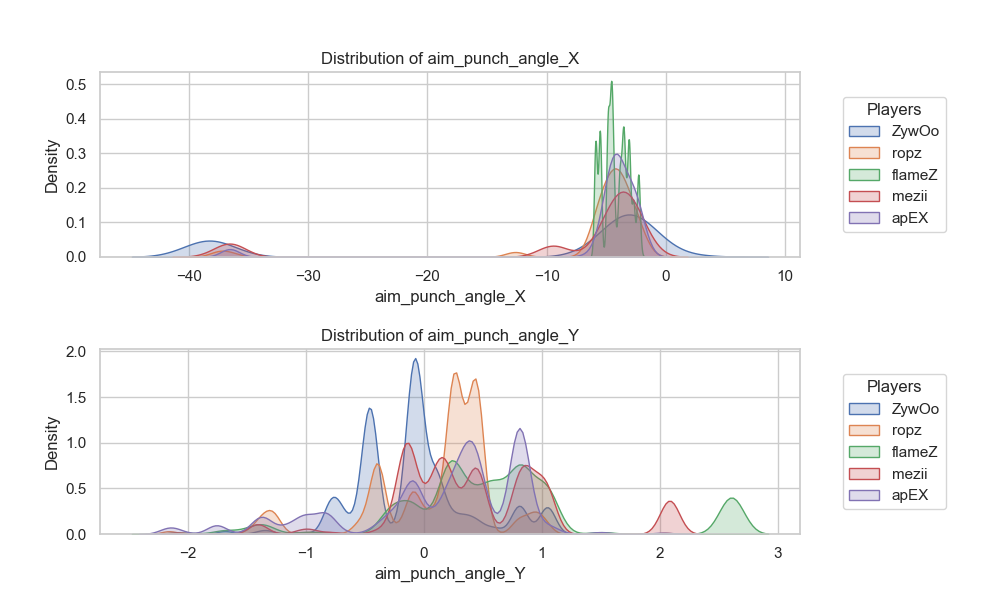
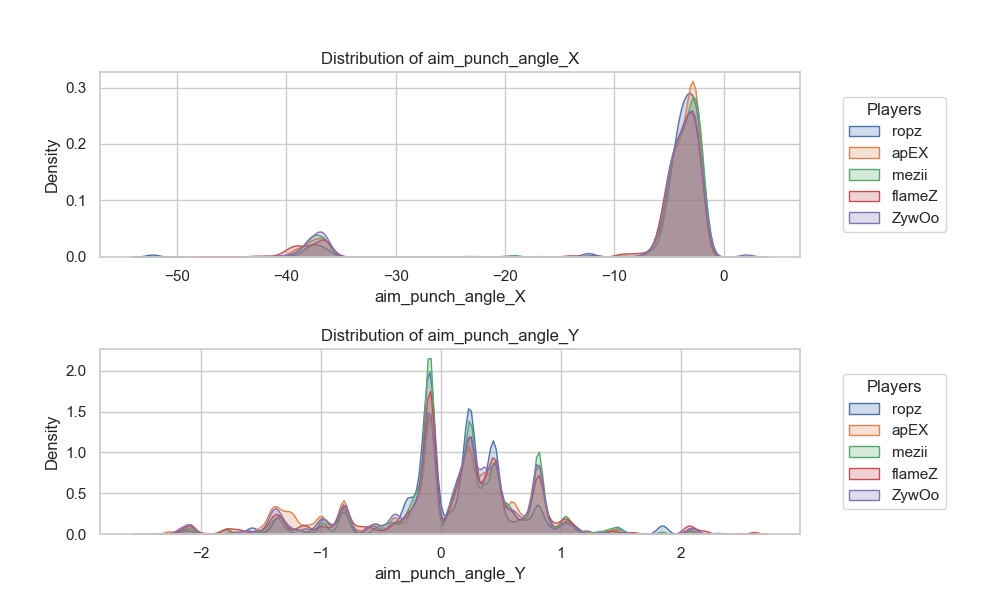
Filter on players of interest Remove rows with NoneType

diff --git a/util.py b/util.py
@@ -1,4 +1,6 @@
+import hashlib
 import os
+import pickle
 from typing import List
 import pandas as pd
 from selenium.webdriver.support.ui import WebDriverWait
@@ -109,15 +111,56 @@ def dir_path(path):
     else:
         raise argparse.ArgumentTypeError(f"{path} is not a valid directory")
     
-def split_list_columns(df : pd.DataFrame) -> pd.DataFrame:
+def split_list_columns(df: pd.DataFrame) -> pd.DataFrame:
+    df = df.dropna().copy()  # Drop None/NaN rows and avoid modifying original DataFrame
+
     for col in tqdm(df.columns, desc="Splitting columns", total=len(df.columns)):
-        # Check if the column contains lists of length 2 or 3
-        if isinstance(df[col].iloc[0], list) or isinstance(df[col].iloc[0], np.ndarray) and len(df[col].iloc[0]) in [2, 3]:
-            # Create new columns based on the length of the list
-            if len(df[col].iloc[0]) == 3:
-                df[[f'{col}_X', f'{col}_Y', f'{col}_Z']] = pd.DataFrame(df[col].to_list(), index=df.index)
-            elif len(df[col].iloc[0]) == 2:
-                df[[f'{col}_X', f'{col}_Y']] = pd.DataFrame(df[col].to_list(), index=df.index)
-            # Drop the original list column
-            df = df.drop(columns=[col])
+        valid_rows = df[col].notna()
+        if valid_rows.any():  # Ensure there are valid rows to process
+            first_valid = df.loc[valid_rows, col].iloc[0]
+            
+            if isinstance(first_valid, (list, np.ndarray)) and len(first_valid) in [2, 3]:
+                # Convert list column to DataFrame and assign directly
+                expanded_df = pd.DataFrame(df.loc[valid_rows, col].to_list(), index=df.index[valid_rows])
+                expanded_df.columns = [f"{col}_X", f"{col}_Y"] if len(first_valid) == 2 else [f"{col}_X", f"{col}_Y", f"{col}_Z"]
+
+                df = df.drop(columns=[col])  # Drop original column
+                df = df.join(expanded_df)  # Join expanded columns back
+        
+        print(f"After {col}: {df.head()}")  # Debugging step
+
     return df
+
+# def split_list_columns(df: pd.DataFrame) -> pd.DataFrame:
+#     for col in tqdm(df.columns, desc="Splitting columns", total=len(df.columns)):
+#         print(f"Processing column {col}")
+#         # Check if the column contains lists of length 2 or 3
+#         if isinstance(df[col].iloc[0], list) or isinstance(df[col].iloc[0], np.ndarray):
+#             # Filter out rows where the column contains None or NaN
+#             valid_rows = df[col].notna()
+#             if valid_rows.any():  # Ensure there are valid rows to process
+
+#                 if len(df[col].iloc[0]) == 3:
+#                     df.loc[valid_rows, [f'{col}_X', f'{col}_Y', f'{col}_Z']] = pd.DataFrame(df[col].to_list(), index=df.index)
+#                 elif len(df[col].iloc[0]) == 2:
+#                     df.loc[valid_rows, [f'{col}_X', f'{col}_Y']] = pd.DataFrame(df[col].to_list(), index=df.index)
+#             # Drop the original list column
+#             df = df.drop(columns=[col])
+#     return df
+
+def store_cache(data, args):
+    input_hash = hashlib.sha1((str(args)).encode('utf-8')).hexdigest()
+    stored_name = f'./cache/{input_hash}.pkl'
+    print(f"Storing to cache {input_hash}, with args {str(args)}")
+
+    os.makedirs('./cache', exist_ok=True)
+    pickle.dump(data, open(stored_name, 'wb'))
+
+def load_cache(args):
+    input_hash = hashlib.sha1((str(args)).encode('utf-8')).hexdigest()
+    stored_name = f'./cache/{input_hash}.pkl'
+    if os.path.exists(stored_name):
+        print(f"Found stored data in cache {input_hash}, for args {str(args)}")
+        return pickle.load(open(stored_name, 'rb'))
+    
+    return None

diff --git a/distributions.py b/distributions.py
@@ -3,6 +3,9 @@ from typing import Callable, List, Mapping
 from tqdm import tqdm
 import util
 import pandas as pd
+import matplotlib
+matplotlib.use('wxAgg')
+
 import matplotlib.pyplot as plt
 import seaborn as sns
 import merge_demo_files as merger
@@ -15,23 +18,35 @@ players_of_interest = [
     "apEX",
 ]
 
+tick_props = [
+    'aim_punch_angle', 
+    'aim_punch_angle_vel',
+    'duck_amount',
+]
+
 def main():
     parser = argparse.ArgumentParser(description='Generate heatmaps of player locations')
     parser.add_argument('folder', type=util.dir_path, help='Path to the folder containing .dem files')
     parser.add_argument('--players', type=str, nargs='*', default=[], help='List of player usernames to filter (empty for all players)')
+    parser.add_argument('--show', action='store_true', help='Show interactive plot instead of saving to file')
 
     args = parser.parse_args()
 
-    ticks, _ = merger.merge_demo_files(
-        folder_path=args.folder, 
-        tick_props=[
-            'aim_punch_angle', 
-            'aim_punch_angle_vel',
-            'duck_amount',
-        ],
-    )
+    ticks = util.load_cache([args.folder, tick_props])
+
+    if ticks is None:
+        ticks, _ = merger.merge_demo_files(
+            folder_path=args.folder, 
+            tick_props=tick_props,
+            players_of_interest=players_of_interest
+        )
     
-    ticks = util.split_list_columns(ticks)
+        ticks = util.split_list_columns(ticks)
+
+        util.store_cache(ticks, [args.folder, tick_props])
+
+    print(f"Loaded {len(ticks)} ticks")
+    print(ticks.head())
 
     plot_distribution_by_player(
         ticks, 
@@ -40,7 +55,8 @@ def main():
         filters={
             'aim_punch_angle_X': lambda x: (x < -2) | (x > 2),
             'aim_punch_angle_Y': lambda x: (x < -0.05) | (x > 0.05),
-        }
+        },
+        args=args,
     )
 
     plot_distribution_by_player(
@@ -50,7 +66,8 @@ def main():
         filters={
             'aim_punch_angle_vel_X': lambda x: (x < -5 ) | (x > 5),
             'aim_punch_angle_vel_Y': lambda x: (x < -20) | (x > 20),
-        }
+        },
+        args=args,
     )
 
     plot_distribution_by_player(
@@ -59,10 +76,17 @@ def main():
         name="duck_amount",
         filters={
             'duck_amount': lambda x: x > 0.1
-        }
+        },
+        args=args,
     )
 
-def plot_distribution_by_player(df : pd.DataFrame, fields_of_interest : List[str], name: str, filters: Mapping[str, Callable[[any], bool]] = {}):
+def plot_distribution_by_player(
+        df : pd.DataFrame, 
+        fields_of_interest : List[str], 
+        name: str,
+        args: argparse.Namespace,
+        filters: Mapping[str, Callable[[any], bool]] = {}
+    ):
     """
     Plots the distribution of given fields of interest, where each player gets a unique color.
     
@@ -112,7 +136,10 @@ def plot_distribution_by_player(df : pd.DataFrame, fields_of_interest : List[str
     # Add a legend
     plt.subplots_adjust(left=0.1, right=0.8, hspace=0.5)
 
-    plt.savefig(f"./figures/{name}.png")
+    if args.show:
+        plt.show()
+    else:
+        plt.savefig(f"./figures/{name}.png")
 
 
 if __name__ == '__main__':

diff --git a/merge_demo_files.py b/merge_demo_files.py
@@ -7,9 +7,9 @@ import os
 import hashlib
 from tqdm import tqdm
 
-def merge_demo_files(folder_path : str, tick_props : List[str], save = True):
-    # 6eb9ecd9559f291023f8d80ed4545eefc1f51ac8
-    input_hash = hashlib.sha1((folder_path + str(tick_props)).encode('utf-8')).hexdigest()
+# TODO: Filter by players of interest, as to not load all players into memory
+def merge_demo_files(folder_path : str, tick_props : List[str], save : bool = True, players_of_interest : List[str] = None):
+    input_hash = hashlib.sha1((folder_path + str(tick_props) + str(players_of_interest)).encode('utf-8')).hexdigest()
     stored_name = f'./stored_dfs/{input_hash}'
     if os.path.exists(stored_name):
         print("Found stored data")
@@ -31,6 +31,10 @@ def merge_demo_files(folder_path : str, tick_props : List[str], save = True):
     for name, parser in tqdm(parsers, desc="Merging demo files", total=len(parsers)):
         info = parser.parse_header()
         ticks = parser.parse_ticks(wanted_props=tick_props)
+
+        if players_of_interest is not None:
+            ticks = ticks[ticks['name'].isin(players_of_interest)]
+
         ticks['match'] = name
         ticks['map'] = info['map_name']
 
@@ -48,6 +52,7 @@ def merge_demo_files(folder_path : str, tick_props : List[str], save = True):
         with open(stored_name+'/info.txt', 'w') as file:
             file.write(f"""Created on: {strftime("%Y-%m-%d_%H-%M-%S", localtime())}
 Tick props: {str(tick_props)}
+Players of interest: {str(players_of_interest)}
 """)
   
     return merged_ticks, merged_events
